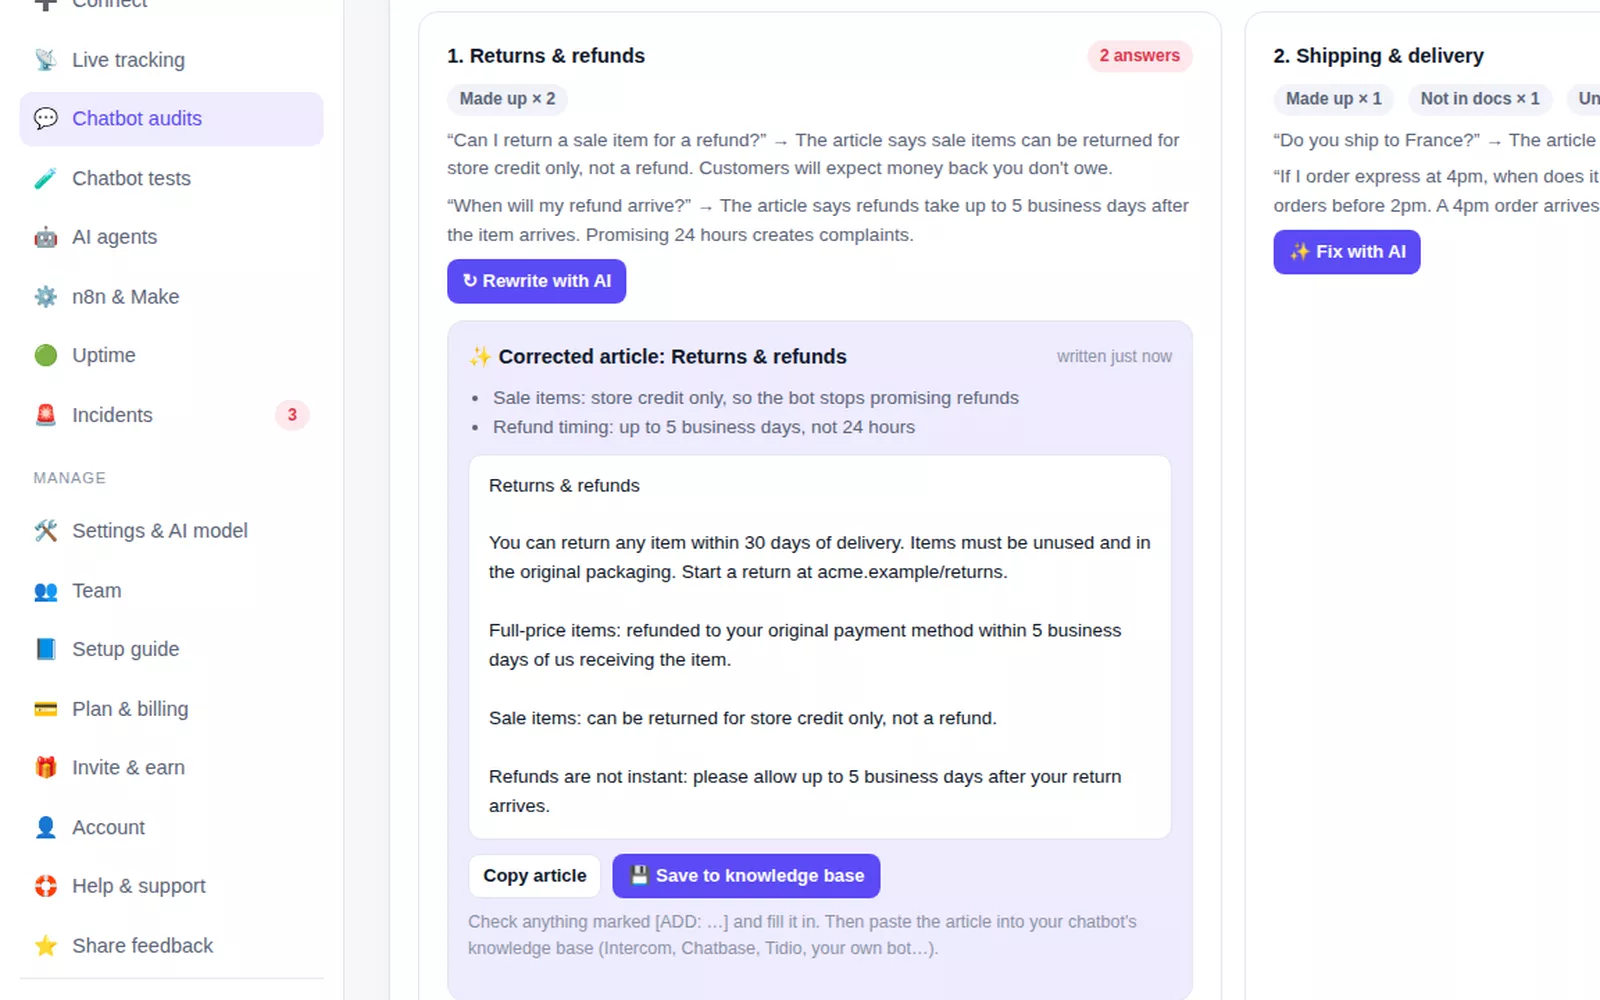
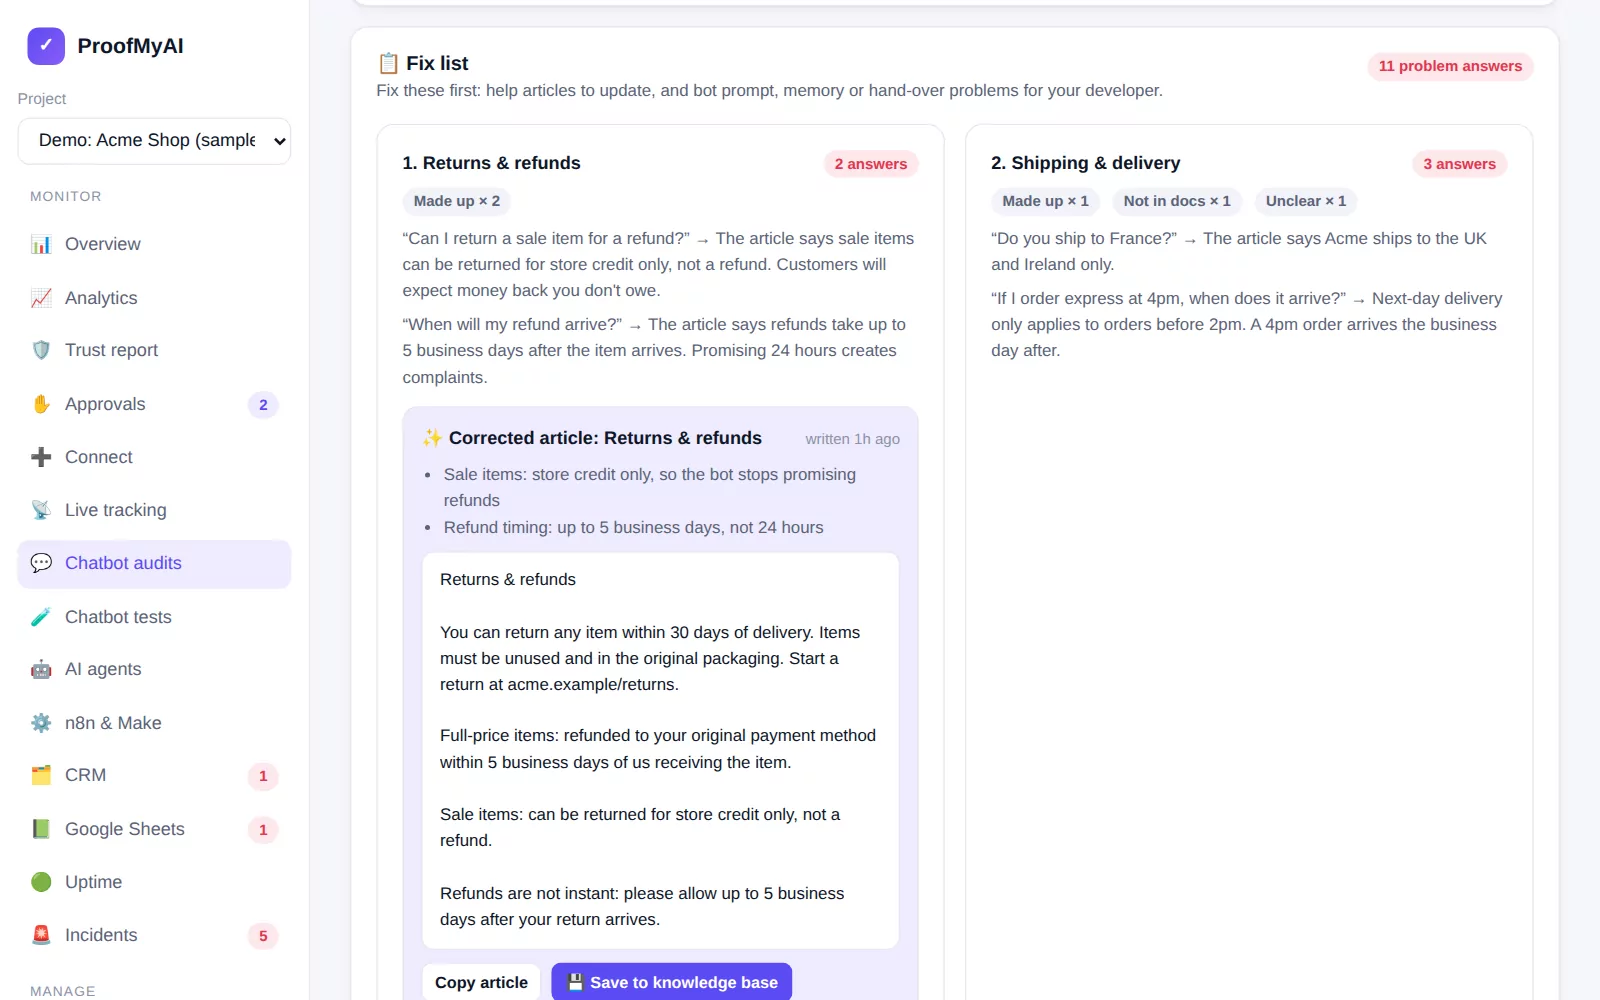
Refresh homepage tour screenshots with the current app (trust, approvals, CRM, sheets in sidebar and overview)
Claude-Session: https://claude.ai/code/session_01XDATopjHq223tvmbk59YEt

diff --git a/src/app/page.tsx b/src/app/page.tsx
@@ -35,7 +35,7 @@ const FEATURES = [
 ];
 
 const TOUR: TourTab[] = [
-  { id: "overview", name: "Overview", subtitle: "One health score for your chatbot, agents and workflows, with open incidents first.", img: "/tour/overview.webp", alt: "ProofMyAI overview: AI health score 66, 14-day chart of workflow runs and agent score, accuracy cards and open incidents" },
+  { id: "overview", name: "Overview", subtitle: "One health score for your chatbot, agents, workflows, sheets and CRM, plus your trust score and approvals waiting.", img: "/tour/overview.webp", alt: "ProofMyAI overview: AI health score 66, 14-day chart, accuracy cards, AI trust score, approvals waiting, CRM and Google Sheets status" },
   { id: "audit", name: "Chatbot audit", subtitle: "Every answer graded against your help docs: correct, made up, not in docs, should escalate.", img: "/tour/audit.webp", alt: "Chatbot audit report with verdict counts and the answers that were made up" },
   { id: "fixes", name: "Fix list", subtitle: "Problems grouped by the help article that caused them, worst first.", img: "/tour/fixes.webp", alt: "Fix list grouping wrong answers by help article: returns, warranty, shipping and missing documentation" },
   { id: "fix-ai", name: "Fix with AI", subtitle: "One click writes the corrected article and a safe system prompt for your bot.", img: "/tour/fixres.webp", alt: "Fix with AI result showing a corrected help article ready to copy" },
